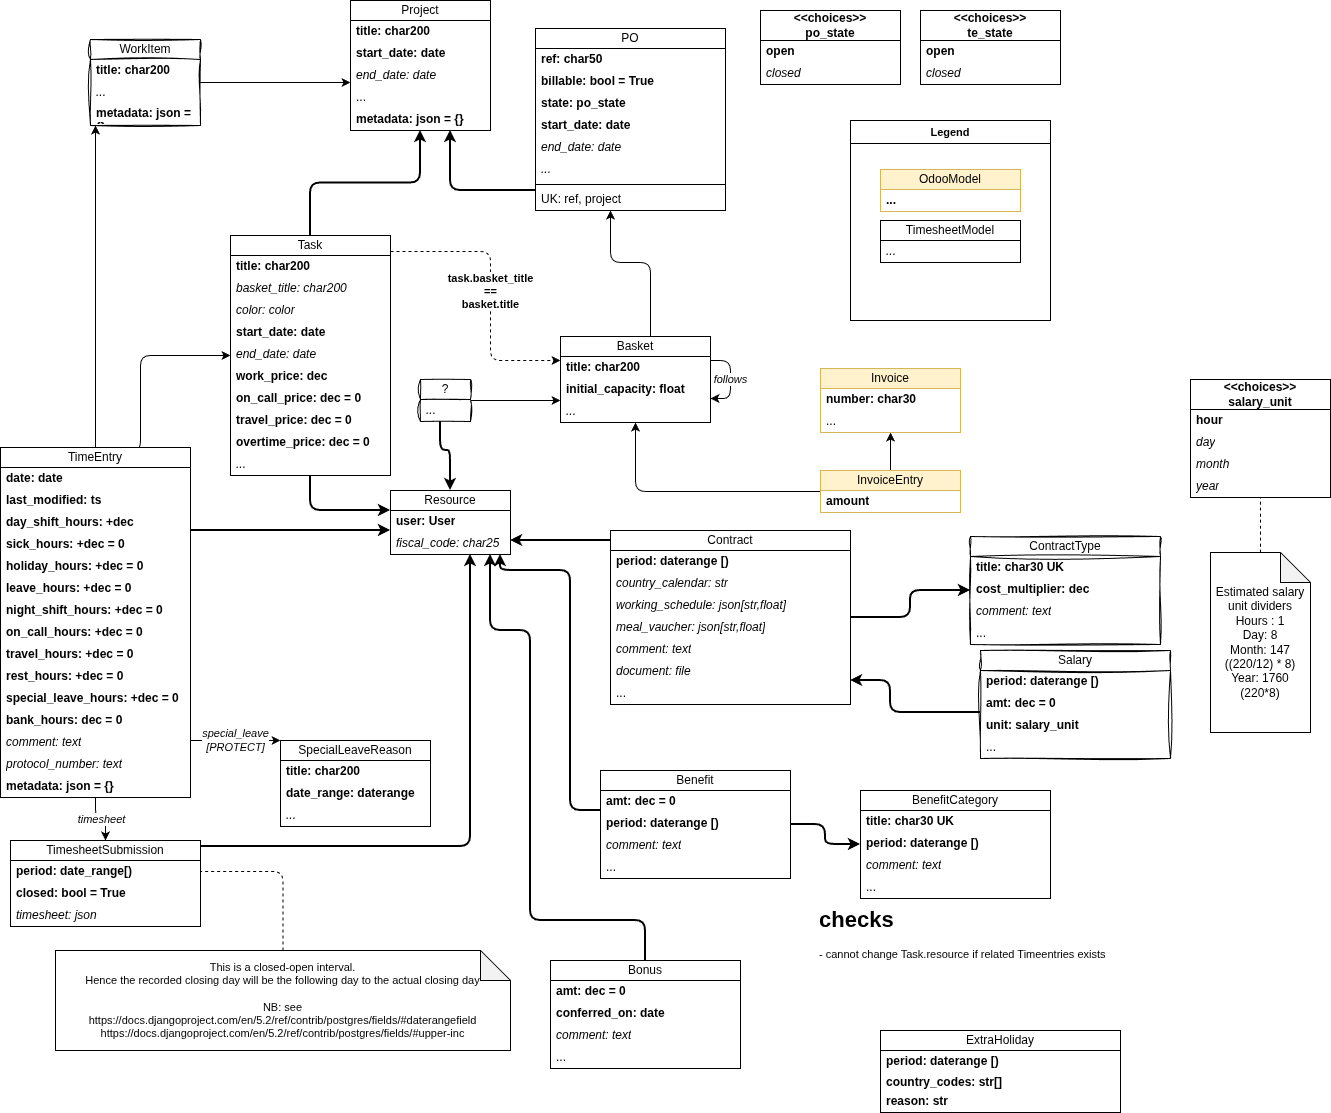
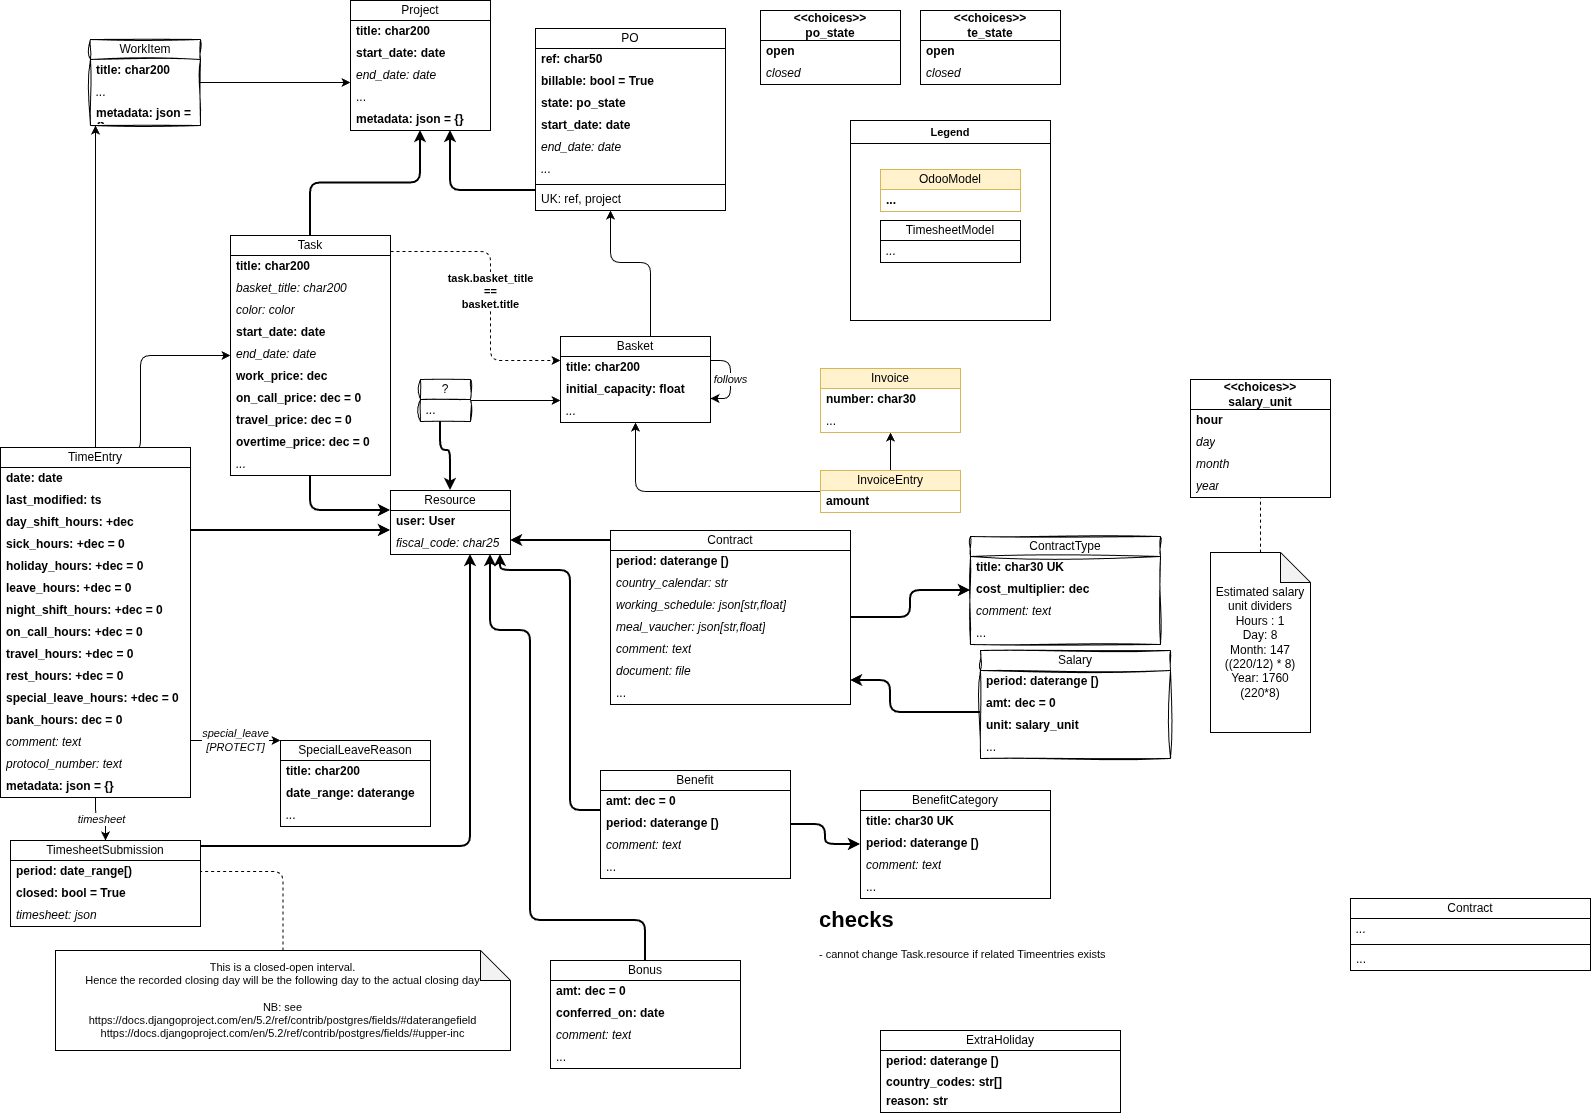
Documentation

diff --git a/docs/guides/users/timesheet_report.md b/docs/guides/users/timesheet_report.md
@@ -1,0 +1,74 @@
+# Timesheet Report
+
+The timesheet report is the most important report in the system for the timesheets.
+Payslips are generated from this report.
+The report is available as first menu entry in the menu `Reports`.
+
+# Layout
+
+There are several tables in the report: one for each Resource, sorted by Resource surname and name.
+Only the Resources with 'Preferred in report' field set to 'Yes' are shown.
+
+Example of table:
+![TimesheetReportExample.png](assets/TimesheetReportExample.png)
+
+
+Each Resource table is organised as follows:
+
+1st row:
+  - A progressive number (in report) followed by the Resource surname and name.
+  - An "X" denotes the corresponding day in the month (which is specified in row 2) is a holiday according to the Resource Contract Country Calendar.
+
+2nd row:
+  - Label "Days" followed by the number of the Resource _Working Days_ (see [Definitions](#definitions)) in the month.
+  - Label "Total HH" (Total Hours) followed by the calendar days in the month. In this colum we will show the sum of the values in the columns 3 onwards.
+
+Following rows (see [Definitions](#definitions)): Bank hours, Due hours, Regular hours, Day shift hours, Night shift hours, On Call, Travel, Holiday, Leave, Sick, Rest, Overtime, Meal Voucher
+
+# Definitions
+
+  - Working Day: a day the Resource is expected to work according to its _Working Schedule_ (see following [Definition](#definitions))
+  - Working Schedule: the number of hours the Resource is expected to work per week day (set in Resource Contract). [Due Hours calculations](#due-hours) may override this number in a calendar day.
+  - Bank hours: A positive number shows the number of bank hours the Resource consumed in the month. A negative number shows the number of bank hours the Resource produced in the month.
+  - Due hours: The number of hours the Resource is expected to work in the day.
+  - Regular hours: The number of hours (Day Shift + Night Shift + Travel Hours) the Resource worked in the day up to maximum the expected number of hours (Due Hours).
+  - Day shift hours: The number of hours the Resource worked in the day during the Day Shift.
+  - Night shift hours: The number of hours the Resource worked in the day during the Night Shift.
+  - On Call: The number of hours the Resource was on call in the day.
+  - Travel: The number of hours the Resource travelled in the day.
+  - Holiday: The number of hours (equivalent to the expected Due Hours) the Resource was on holiday in the day.
+  - Leave: The number of hours the Resource was on leave in the day.
+  - Sick: The number of hours (equivalent to the expected Due Hours) the Resource was sick in the day.
+  - Rest: The number of hours the Resource was on rest in the day.
+  - Meal Voucher: 1 if the meal voucher was earned by the Resource in the day (see [Overtime Calculations](#overtime)).
+  - Overtime: The number of hours the Resource earned as overtime in the day (see [Meal Voucher Calculations](#meal-voucher)).
+
+# Rules
+
+- A Resource cannot have concurrent Contracts
+
+# Calculations
+
+## Country Calendar
+
+To determine if a day is a holiday for a Resource a Country Calendar Code can be set in the Contract.
+If no Country Calendar is set then the default Country Calendar set for the site is used.
+
+## Due Hours
+
+In a calendar day:
+
+- If the Resource has no Contract, OR the Resource is expected to be on holiday (according to the Country Calendar, not if the Resource requested a holiday for the day) then Due Hours = 0
+
+Else
+
+- The Due Hours value is defined in the Resource Contract Working Schedule if it is set, else it is as per the Default Working Schedule set for the site (typically 8 hours per day, Mon-Fri).
+
+## Overtime
+
+The basic value for overtime is calculated as: _Day shift hours_ + _Night shift hours_ + _Travel_ - _Due Hours_
+If such value is 0 or negative then the _Overtime_ value is 0.
+
+## Meal Voucher
+
+To earn a meal voucher, the Resource must work at least it _Due hours_ multiplied by a "Meal Voucher Threshold" (set in the Resource Contract "Meal voucher" field or defaulting to the site default, generally 6 hours Mon-Fri).

diff --git a/docs/guides/users/timesheet_overview.md b/docs/guides/users/timesheet_overview.md
@@ -1,4 +1,4 @@
-# # Timesheet overview
+# Timesheet overview
 ![](./assets/overview.png){ style="width:100%; display:block; margin:auto;" }
 
 1. Task description